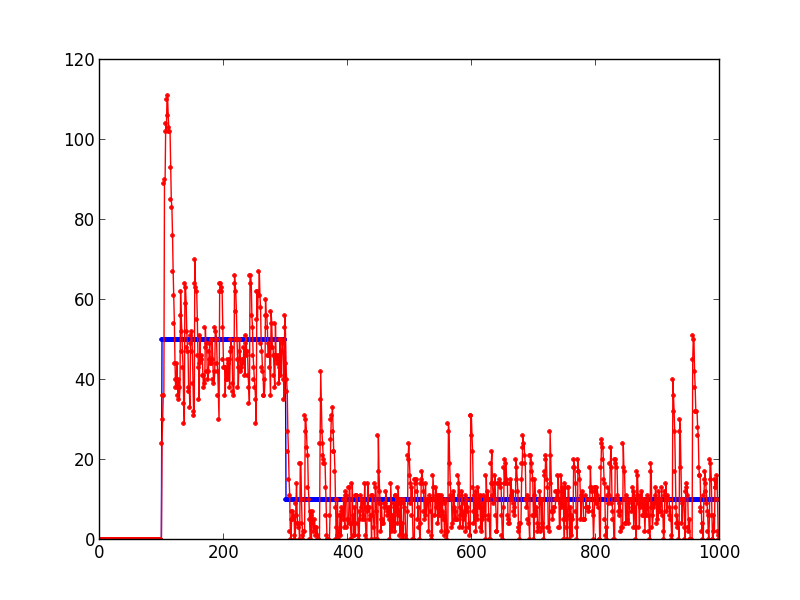
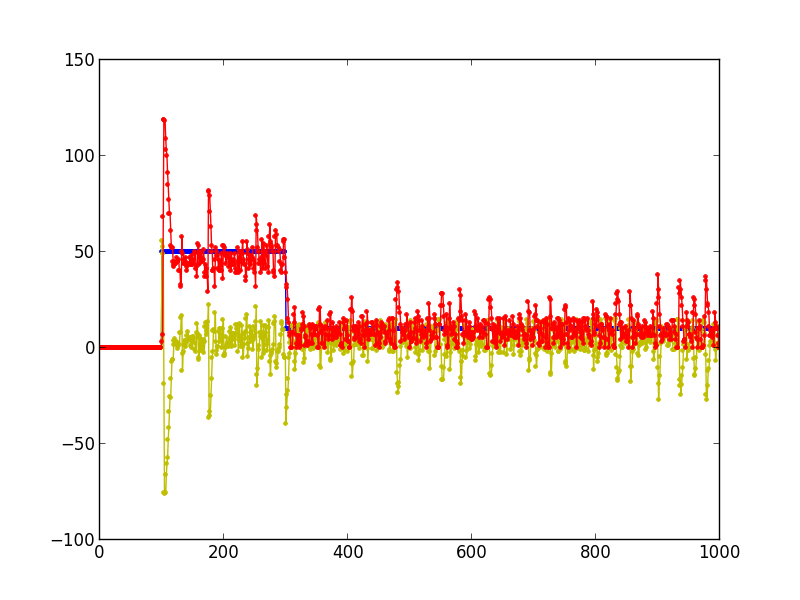
myHDL用ファイル追加

diff --git a/feedback/chap1/myhdl_top.py b/feedback/chap1/myhdl_top.py
@@ -1,0 +1,98 @@
+# -*- coding: utf-8 -*-
+__author__ = 'natu'
+from myhdl import Signal, delay, always, now, Simulation, instance, intbv, traceSignals, ResetSignal, toVerilog
+#from feedback_hdl import feedback_top
+#from reg_driver import reg_driver_top
+
+
+def run_sim():
+#    inst = traceSignals(env)
+    inst = env()
+    sim = Simulation(inst)
+
+    sim.run(40000000)
+
+def env():
+    # clk
+    clk = Signal(bool(0))
+    uClkDriver = ClkDriver(clk)
+    reset = ResetSignal(0, active=True, async=True)
+
+    uResetDriver = ResetDriver(clk, reset)
+
+    # input port
+    rin = Signal(intbv(0, min=0, max=256))
+    gin = Signal(intbv(0, min=0, max=256))
+    bin = Signal(intbv(0, min=0, max=256))
+    radr = Signal(intbv(0, min=0, max=p_max_x * p_max_y))
+
+    # output port
+    rout = Signal(intbv(0, min=0, max=256))
+    gout = Signal(intbv(0, min=0, max=256))
+    bout = Signal(intbv(0, min=0, max=256))
+    wadr = Signal(intbv(0, min=0, max=p_max_x * p_max_y))
+    wen  = Signal(bool(0))
+
+    # registers
+    reg_start = Signal(bool(0))
+    reg_end = Signal(bool(0))
+    reg_width = Signal(intbv(0, min=0, max=p_max_x))
+    reg_height = Signal(intbv(0, min=0, max=p_max_y))
+    reg_roi_x = Signal(intbv(0, min=0, max=p_max_x))
+    reg_roi_y = Signal(intbv(0, min=0, max=p_max_y))
+    reg_roi_w = Signal(intbv(0, min=0, max=p_max_x))
+    reg_roi_h = Signal(intbv(0, min=0, max=p_max_y))
+
+    uRegDriver = reg_driver_top(
+        clk, reset,
+        reg_start, reg_end,
+        reg_width, reg_height,
+        reg_roi_x, reg_roi_y, reg_roi_h, reg_roi_w
+        )
+
+
+    uDut = smoother_top(
+        clk, reset,
+        rin, gin, bin, radr,
+        rout, gout, bout, wadr, wen,
+        reg_start, reg_end,
+        reg_width, reg_height,
+        reg_roi_x, reg_roi_y, reg_roi_h, reg_roi_w
+    )
+
+
+    return uClkDriver, uResetDriver, uRegDriver, uMem, uDut
+
+
+
+def ClkDriver(clk, period = 20):
+    lowTime = int(period/2)
+    highTime = period - lowTime
+
+    @instance
+    def driveClk():
+        while True:
+            yield delay(lowTime)
+            clk.next = 1
+            yield delay(highTime)
+            clk.next = 0
+
+    return driveClk
+
+def ResetDriver(clk, reset):
+    lowTime = 2
+    highTime = 1
+
+    @instance
+    def driveReset():
+        reset.next = 0
+        for i in range(lowTime):
+            yield clk.posedge
+        reset.next = 1
+        for i in range(highTime):
+            yield clk.posedge
+        reset.next = 0
+        yield clk.posedge
+
+    return driveReset
+

diff --git a/feedback/chap1/reg_driver.py b/feedback/chap1/reg_driver.py
@@ -1,0 +1,38 @@
+# -*- coding: utf-8 -*-
+__author__ = 'natu'
+from myhdl import *
+
+def reg_driver_top(
+        clk, reset,
+        reg_start, reg_end,
+        reg_width, reg_height,
+        reg_roi_x, reg_roi_y, reg_roi_h, reg_roi_w
+        ):
+
+    @instance
+    def regDriver():
+        while reset == 0:
+            yield clk.posedge
+        while reset == 1:
+            yield clk.posedge
+
+        reg_width.next = 358
+        reg_height.next = 557
+        reg_roi_x.next = 100
+        reg_roi_y.next = 100
+        reg_roi_h.next = 200
+        reg_roi_w.next = 150
+        yield clk.posedge
+
+        reg_start.next = 1
+        yield clk.posedge
+        reg_start.next = 0
+        yield clk.posedge
+
+        while reg_end == 0:
+            yield clk.posedge
+
+        print("end == 1")
+        yield clk.posedge
+
+    return regDriver

diff --git a/feedback/chap1/feedback.py b/feedback/chap1/feedback.py
@@ -52,8 +52,6 @@ def open_loop(p, tm = 5000):
         u = target(t)
         y = p.work(u)
 
-        #print t, u, 0, u, y
-
 
 def closed_loop(c, p, tm = 5000):
     global rs, es, us, ys
@@ -77,6 +75,7 @@ def closed_loop(c, p, tm = 5000):
 def plot(fname):
     pylab.figure()
     pylab.plot(rs, 'b.-')
+    pylab.plot(us, 'y.-')
     pylab.plot(ys, 'r.-')
 
     pylab.savefig("chap1.png")
@@ -84,11 +83,10 @@ def plot(fname):
 
 #c = Controller(1.25, 0.01)
 #p = Buffer(50, 10)
-
 #open_loop(p, 1000)
 
-c = Controller(1.25, 0.01)
+c = Controller(1.10, 0.01)
 p = Buffer(50, 10)
 
-closed_loop(c, p, 1000)
+closed_loop(c, p, MAX_DATA)
 plot("result.png")

diff --git a/feedback/chap1/Controller.py b/feedback/chap1/Controller.py
@@ -1,0 +1,25 @@
+__author__ = 'natutan'
+
+
+from myhdl import *
+
+def controller_top(
+        clk, reset,
+        kp, ki, e,
+        out,
+    ):
+
+    i = 0
+
+    @always_seq(clk.posedge, reset=reset)
+    def fsm():
+        global i
+        if reset == 1:
+            out.next = 0
+            i = 0
+        else:
+            i = i +  e
+            out.next = kp * e + ki * i
+
+
+    return fsm

diff --git a/feedback/chap1/feedback_hdl.py b/feedback/chap1/feedback_hdl.py
@@ -1,0 +1,1 @@
+__author__ = 'natsutan'
